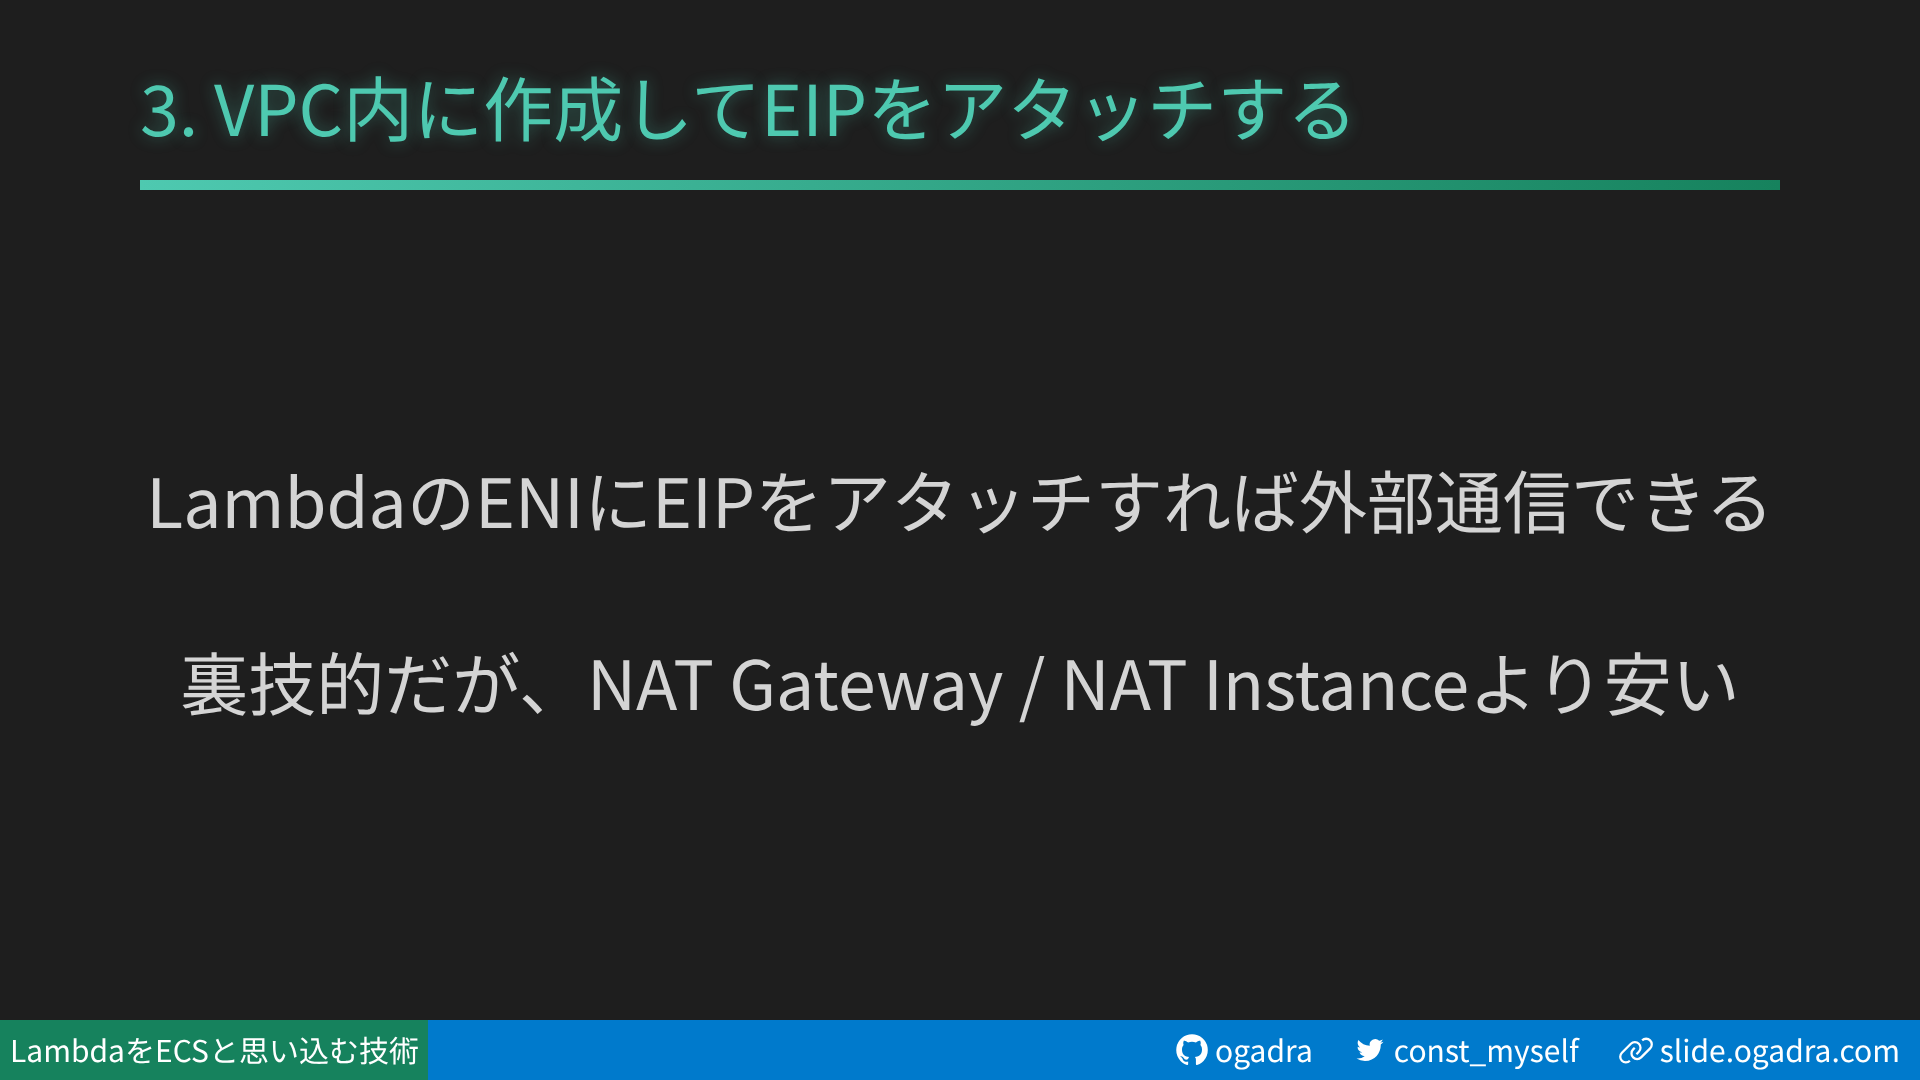
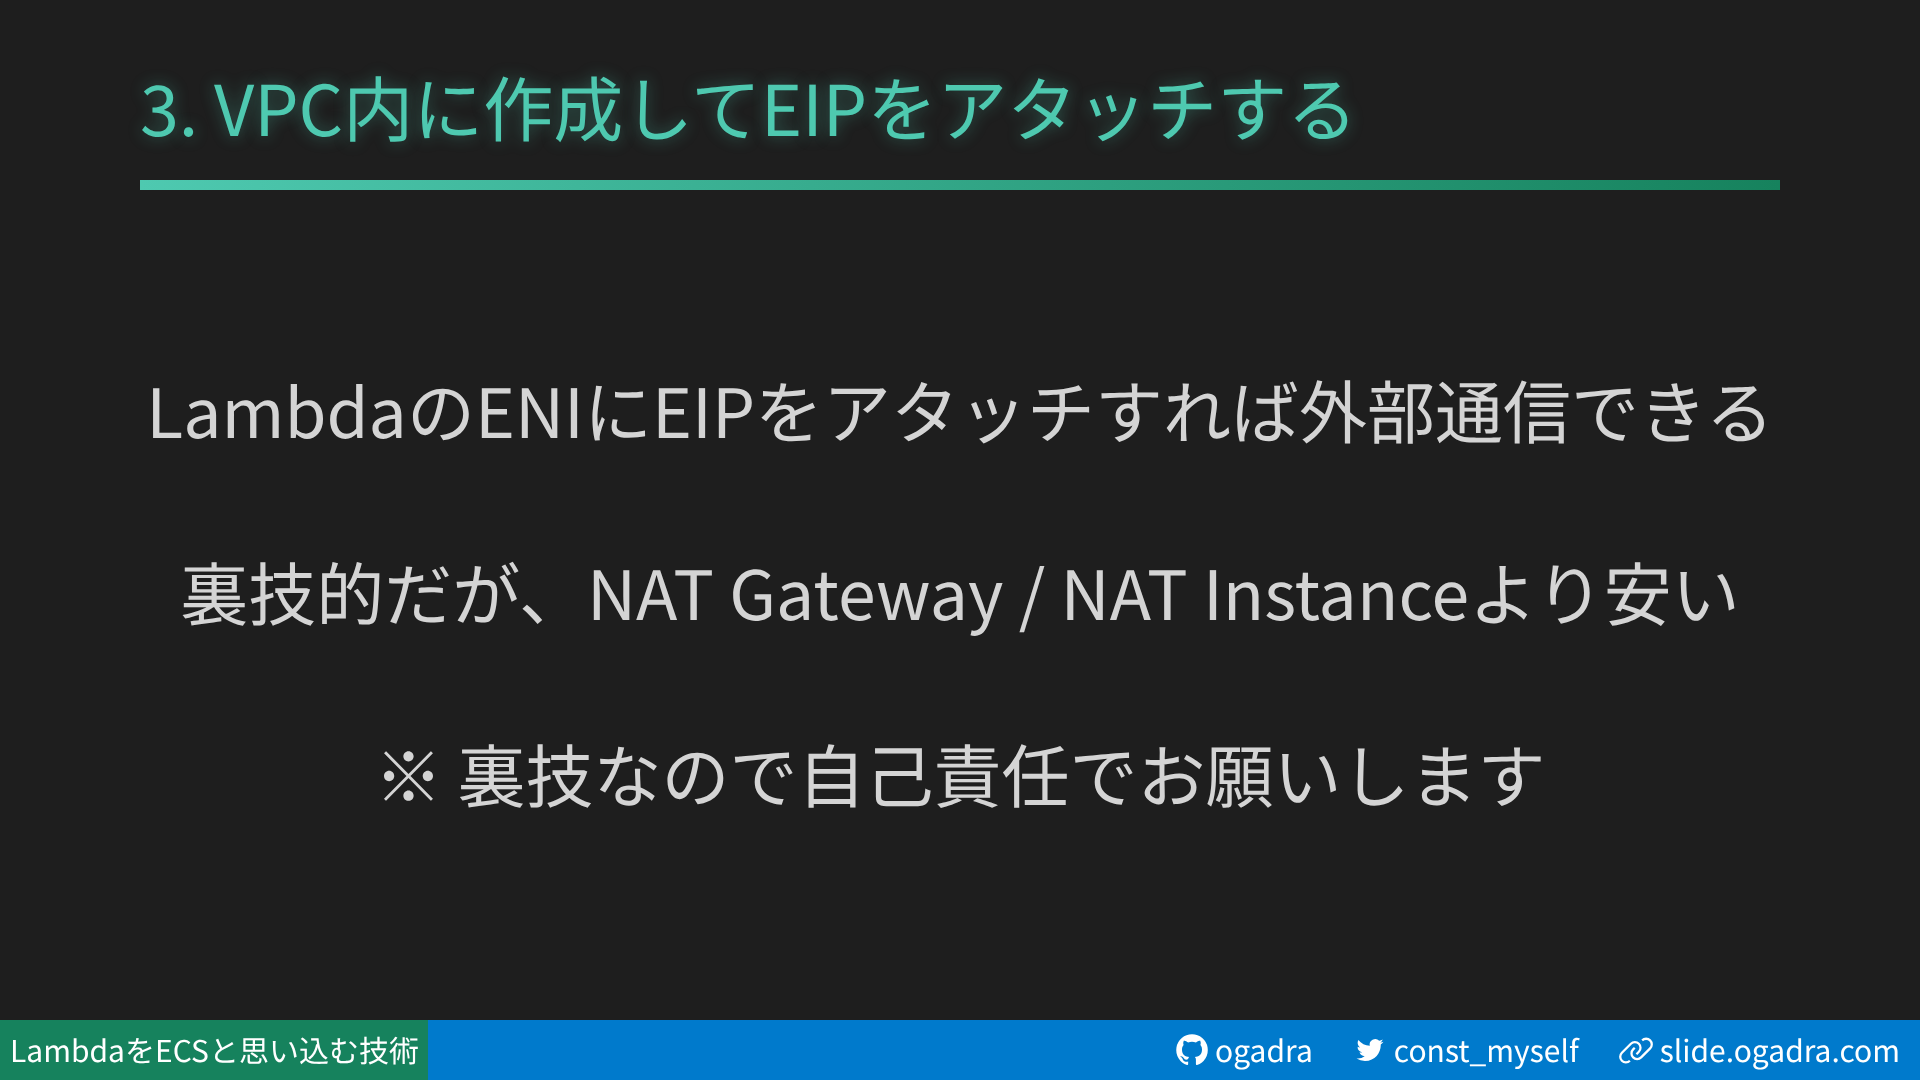
docs: add description

diff --git a/slidev/lambda-as-an-ecs-alternative/slides.md b/slidev/lambda-as-an-ecs-alternative/slides.md
@@ -343,6 +343,8 @@ LambdaのENIにEIPをアタッチすれば外部通信できる
 
 裏技的だが、NAT Gateway / NAT Instanceより安い
 
+※ 裏技なので自己責任でお願いします
+
 </div>
 
 <style>
